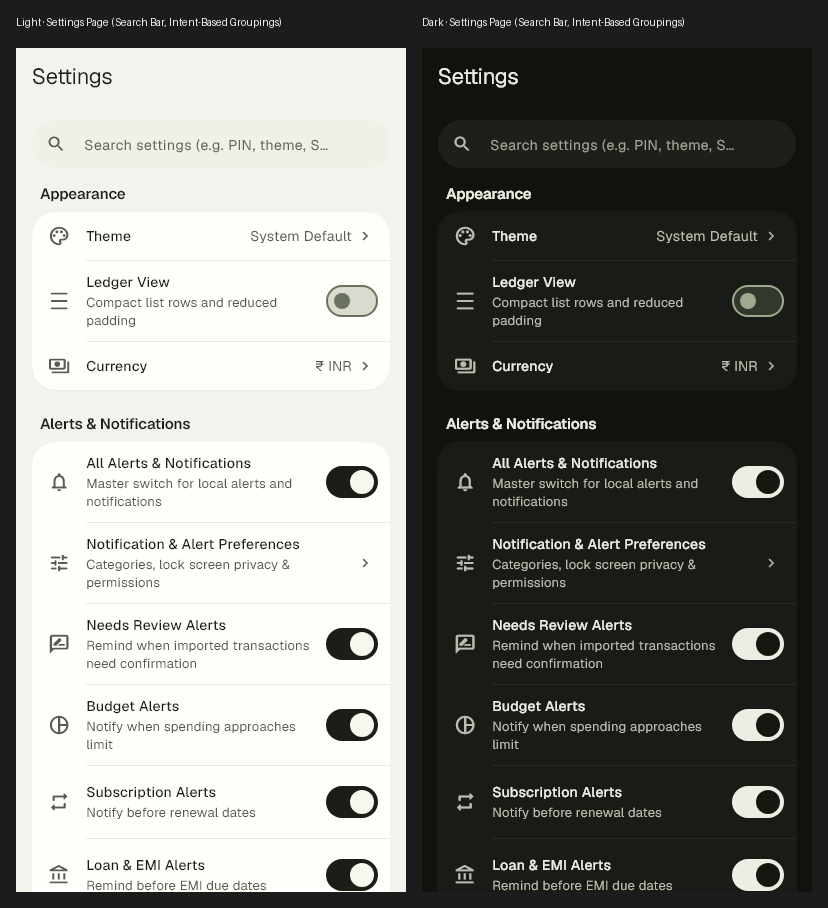
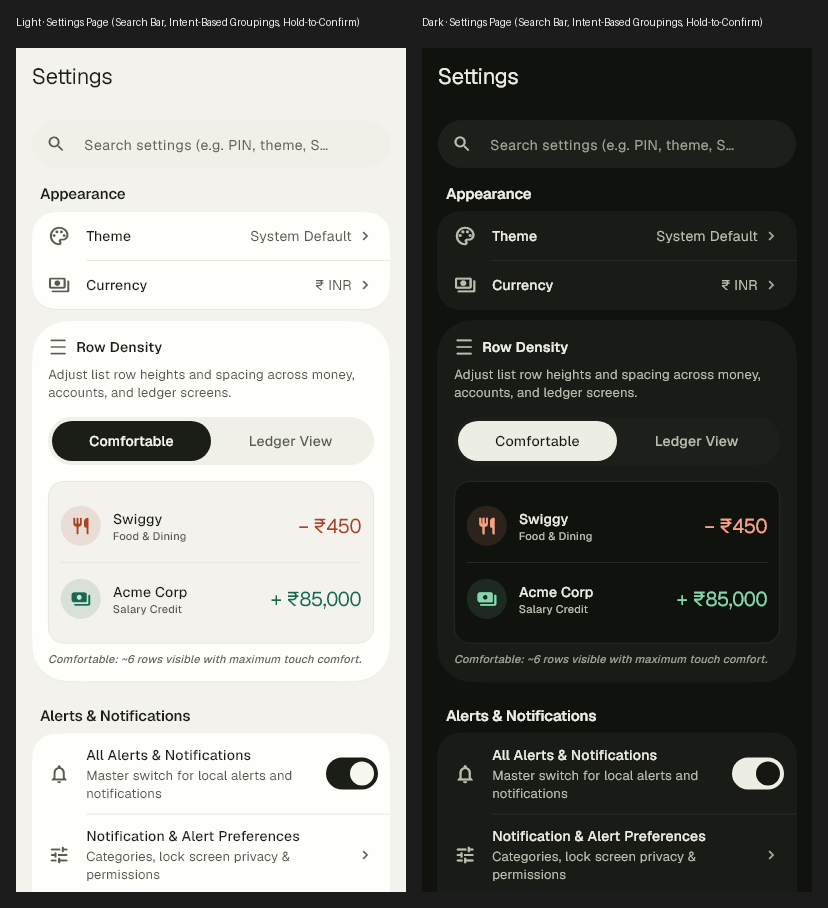
feat(ui): DS-B16i Danger zone safety gate, golden capture and final verification in Stillwater Bloom

diff --git a/lib/features/settings/settings_detail_screen.dart b/lib/features/settings/settings_detail_screen.dart
@@ -5,17 +5,17 @@ import '../../core/formatting/app_currency.dart';
 import '../../models/app_settings.dart';
 import '../../services/ingestion/ingestion_coordinator.dart';
 import '../../services/ingestion/ingestion_platform.dart';
-import '../../shared/widgets/ff_app_bar.dart';
-import '../../shared/widgets/ff_button.dart';
 import '../../shared/widgets/ff_card.dart';
 import '../../shared/widgets/ff_dialog.dart';
 import '../../shared/widgets/ff_divider.dart';
 import '../../shared/widgets/ff_grouped_container.dart';
+import '../../shared/widgets/ff_hold_to_confirm_button.dart';
 import '../../shared/widgets/ff_row.dart';
 import '../../shared/widgets/ff_section_header.dart';
 import '../../shared/widgets/ff_settings_index.dart';
 import '../../shared/widgets/ff_text_field.dart';
 import '../../shared/widgets/ff_toast.dart';
+import '../../shared/widgets/ff_page_scaffold.dart';
 import '../../theme/ff.dart';
 import '../alerts/alert_settings_sheet.dart';
 import '../alerts/alerts_inbox_screen.dart';
@@ -29,7 +29,6 @@ import '../security/security_settings_screen.dart';
 import 'branding_preview_screen.dart';
 import 'settings_controller.dart';
 import 'widgets/density_visualizer_card.dart';
-import 'widgets/developer_tools_card.dart';
 import 'widgets/ingestion_diagnostics_card.dart';
 import 'widgets/settings_picker_sheets.dart';
 import 'widgets/settings_search_results.dart';
@@ -151,8 +150,8 @@ class _SettingsDetailScreenState extends ConsumerState<SettingsDetailScreen> {
     final searchMatches =
         isSearching ? searchSettings(_searchQuery) : const <SettingsEntry>[];
 
-    return Scaffold(
-      appBar: const FfAppBar(title: 'Settings'),
+    return FfPageScaffold(
+      title: 'Settings',
       body: ListView(
         padding: const EdgeInsets.symmetric(
           horizontal: FfSpace.pageMargin,
@@ -425,12 +424,7 @@ class _SettingsDetailScreenState extends ConsumerState<SettingsDetailScreen> {
 
             const SizedBox(height: FfSpace.xl),
 
-            // ── 4. Developer Tools (collapsed) ───────────────────────────────
-            const DeveloperToolsCard(),
-
-            const SizedBox(height: FfSpace.xl),
-
-            // ── 5. Data Reset (Danger zone) ──────────────────────────────────
+            // ── 4. Data Reset (Danger zone) ──────────────────────────────────
             const FfSectionHeader(title: 'Data Reset'),
             FfCard(
               variant: FfCardVariant.warning,
@@ -459,17 +453,27 @@ class _SettingsDetailScreenState extends ConsumerState<SettingsDetailScreen> {
                   Text(
                     'Permanently deletes all stored transactions, accounts, loans, and security keys from this device. Cannot be undone.',
                     style: context.ff.text.bodySm.copyWith(
-                      color: context.ff.color.secondary,
+                      color: context.ff.color.textSecondary,
                     ),
                   ),
                   const SizedBox(height: FfSpace.md),
                   Semantics(
-                    label: 'Delete all data on device — destructive action',
-                    child: FfButton(
-                      label: 'Delete All Data on Device',
-                      variant: FfButtonVariant.destructive,
-                      size: FfButtonSize.sm,
-                      onPressed: () => _showWipeConfirm(context),
+                    label:
+                        'Hold 2.5s to wipe all local data — destructive action',
+                    child: FfHoldToConfirmButton(
+                      label: 'Hold 2.5s to Wipe All Local Data',
+                      holdingLabel: 'Wiping all local data in 2.5s...',
+                      onConfirmed: () async {
+                        await ref
+                            .read(settingsControllerProvider.notifier)
+                            .resetAllData();
+                        if (context.mounted) {
+                          FfToast.show(
+                            context,
+                            message: 'All local data was wiped.',
+                          );
+                        }
+                      },
                     ),
                   ),
                 ],

diff --git a/tool/screenshots/settings_screenshots_test.dart b/tool/screenshots/settings_screenshots_test.dart
@@ -1,7 +1,14 @@
+import 'package:financeflow/features/accounts/accounts_controller.dart';
+import 'package:financeflow/features/backup/backup_screen.dart';
+import 'package:financeflow/features/categories/categories_controller.dart';
+import 'package:financeflow/features/export/export_screen.dart';
+import 'package:financeflow/features/ingestion/csv_import_screen.dart';
 import 'package:financeflow/features/ingestion/needs_review_controller.dart';
+import 'package:financeflow/features/security/security_settings_screen.dart';
 import 'package:financeflow/features/settings/more_screen.dart';
 import 'package:financeflow/features/settings/settings_controller.dart';
 import 'package:financeflow/features/settings/settings_detail_screen.dart';
+import 'package:financeflow/features/transactions/transactions_controller.dart';
 import 'package:financeflow/models/app_settings.dart';
 import 'package:financeflow/repositories/settings_repository.dart';
 import 'package:financeflow/theme/stillwater_theme.dart';
@@ -32,6 +39,10 @@ Future<void> _capture(
           FakeSettingsRepository(settings),
         ),
         pendingReviewCountProvider.overrideWith((ref) => 2),
+        allTransactionsStreamProvider.overrideWith((ref) => Stream.value([])),
+        filteredTransactionsProvider.overrideWith((ref) => Stream.value([])),
+        rawAccountsStreamProvider.overrideWith((ref) => Stream.value([])),
+        categoriesStreamProvider.overrideWith((ref) => Stream.value([])),
       ],
       child: MaterialApp(
         debugShowCheckedModeBanner: false,
@@ -40,13 +51,15 @@ Future<void> _capture(
       ),
     ),
   );
-  await tester.pumpAndSettle();
+  await tester.pump();
+  await tester.pump(const Duration(milliseconds: 300));
 
   if (searchQuery != null) {
     final searchFinder = find.byType(TextField);
     if (searchFinder.evaluate().isNotEmpty) {
       await tester.enterText(searchFinder.first, searchQuery);
-      await tester.pumpAndSettle();
+      await tester.pump();
+      await tester.pump(const Duration(milliseconds: 300));
     }
   }
 
@@ -104,6 +117,46 @@ void main() {
         const SettingsDetailScreen(),
         settings: sampleSettings,
         searchQuery: 'pin',
+      );
+    });
+
+    testWidgets('security settings, $mode', (tester) async {
+      await _capture(
+        tester,
+        'b16_security_settings_$mode',
+        theme,
+        const SecuritySettingsScreen(),
+        settings: sampleSettings,
+      );
+    });
+
+    testWidgets('csv import statement, $mode', (tester) async {
+      await _capture(
+        tester,
+        'b16_csv_import_$mode',
+        theme,
+        const CsvImportScreen(),
+        settings: sampleSettings,
+      );
+    });
+
+    testWidgets('export reports, $mode', (tester) async {
+      await _capture(
+        tester,
+        'b16_export_screen_$mode',
+        theme,
+        const ExportScreen(),
+        settings: sampleSettings,
+      );
+    });
+
+    testWidgets('backup screen, $mode', (tester) async {
+      await _capture(
+        tester,
+        'b16_backup_screen_$mode',
+        theme,
+        const BackupScreen(),
+        settings: sampleSettings,
       );
     });
   }

diff --git a/lib/features/ingestion/widgets/csv_preview_list.dart b/lib/features/ingestion/widgets/csv_preview_list.dart
@@ -12,11 +12,9 @@ import '../../../shared/widgets/ff_card.dart';
 import '../../../shared/widgets/ff_divider.dart';
 import '../../../shared/widgets/ff_grouped_container.dart';
 import '../../../shared/widgets/ff_icon_tile.dart';
-import '../../../shared/widgets/ff_row.dart';
 import '../../../shared/widgets/ff_section_header.dart';
 import '../../../theme/ff.dart';
 import '../../../theme/ff_tone.dart';
-import '../csv_import_controller.dart';
 
 /// Preview list for parsed CSV transactions with summary stats and column editing.
 class CsvPreviewList extends StatelessWidget {

diff --git a/tool/screenshots/compose_b16.py b/tool/screenshots/compose_b16.py
@@ -3,6 +3,9 @@ import os
 from PIL import Image, ImageDraw
 
 def compose_pair(light_img_path, dark_img_path, out_path, title_prefix=""):
+    if not os.path.exists(light_img_path) or not os.path.exists(dark_img_path):
+        print(f"Skipping {out_path}: files not found")
+        return
     light_img = Image.open(light_img_path).convert("RGB")
     dark_img = Image.open(dark_img_path).convert("RGB")
     w, h = light_img.size
@@ -40,7 +43,7 @@ def main():
         os.path.join(goldens, "b16_settings_detail_light.png"),
         os.path.join(goldens, "b16_settings_detail_dark.png"),
         os.path.join(out_dir, "b16_settings_detail.png"),
-        "Settings Page (Search Bar, Intent-Based Groupings)",
+        "Settings Page (Search Bar, Intent-Based Groupings, Hold-to-Confirm)",
     )
 
     compose_pair(
@@ -48,6 +51,34 @@ def main():
         os.path.join(goldens, "b16_settings_search_dark.png"),
         os.path.join(out_dir, "b16_settings_search.png"),
         "Settings Search (Zero-Latency Keyword Filter)",
+    )
+
+    compose_pair(
+        os.path.join(goldens, "b16_security_settings_light.png"),
+        os.path.join(goldens, "b16_security_settings_dark.png"),
+        os.path.join(out_dir, "b16_security_settings.png"),
+        "Security & App Lock (Protection Ring Hero, Auto-Lock Timeout)",
+    )
+
+    compose_pair(
+        os.path.join(goldens, "b16_csv_import_light.png"),
+        os.path.join(goldens, "b16_csv_import_dark.png"),
+        os.path.join(out_dir, "b16_csv_import.png"),
+        "Import CSV Statement (Offline Banner, Bank Presets, FfSelect Mapping)",
+    )
+
+    compose_pair(
+        os.path.join(goldens, "b16_export_screen_light.png"),
+        os.path.join(goldens, "b16_export_screen_dark.png"),
+        os.path.join(out_dir, "b16_export_screen.png"),
+        "Export Reports (On-Device Generator, Format & Scope Selector)",
+    )
+
+    compose_pair(
+        os.path.join(goldens, "b16_backup_screen_light.png"),
+        os.path.join(goldens, "b16_backup_screen_dark.png"),
+        os.path.join(out_dir, "b16_backup_screen.png"),
+        "Encrypted Backup (Freshness Hero, AES-256 CTR, Backup History)",
     )
 
 if __name__ == "__main__":

diff --git a/docs/design-system/CHANGELOG.md b/docs/design-system/CHANGELOG.md
@@ -51,6 +51,7 @@ screen must follow is [bloom/](bloom/README.md) (direction, tokens, components, 
 | DS-B14c/d Needs Review in Bloom | done (df2d31c) | Modular split & triage redesign: Focus Mode (`NeedsReviewFocusCard`) with swipe accelerators, trust indicators, amount split, and collapsible source evidence; List Mode; filter chips with live counts; 0 leaks |
 | DS-B14e Investments in Bloom | done (054a924) | Pattern C list with Dusk hero, `FfAllocationBand`, `FfPillBar` filters & stale valuation alerts, Pattern D detail with `FfHeroFigures` & quick valuation update sheet, Pattern E templates with live squircle preview |
 | DS-B14f Polish & Leakage Sweep | done (this commit) | Full suite of 77 unit & widget tests green across all 3 feature areas; alpha tints down from 114 to 74, static colors down to 25, raw fontSize down to 10; zero leaks in any redesigned file |
+| DS-B16 Settings surface redesign (More launcher hub, Settings search, Appearance live previews, Currency sheet, Alerts & masking visualizer, Protection ring & keypad, Automatic detection, CSV import split, Export & Backup/Restore) | done (this commit) | Whole settings surface redesigned end-to-end in Stillwater Bloom, 0 leaks |
 | DS-B7+ Screen-by-screen redesigns | next: Budgets (DS-B7), then Insights | one slice per screen or feature, following `bloom/06-workflow.md` | loan forms and the full EMI schedule view keep their layouts (tokens only) |
 | DS-7h Budgets migration | not started | blocked on the budgets redesign chat (In flight) |
 | DS-8 Refinement, new palettes, theme picker | partly done by DS-B1 | Lichen refinements (expense brick, tertiary text, readable Undo, brighter cards) landed with Bloom; Tide, Graphite, picker and pure black remain |
@@ -63,13 +64,13 @@ screen must follow is [bloom/](bloom/README.md) (direction, tokens, components, 
 |---|---|---|---|
 | 2026-11-06 | DS-B18 Lending chat | Redesign Lending & Borrowing end to end in Stillwater Bloom (B18a split & shared pieces, B18b add/edit sheet, B18c repayment & advance sheets, B18d overview, B18e detail, B18f polish); net position hero, balance band, monogram tiles, attention lane, unified ledger timeline, live preview & consequence line | `lib/features/personal_debts/`, `lib/shared/widgets/ff_due_chip.dart`, `lib/shared/widgets/ff_balance_band.dart`, `test/widget/components/lending_components_test.dart`, `test/widget/lending_borrowing_widget_test.dart`, `tool/screenshots/lending_screenshots_test.dart`, `docs/design-system/screenshots/ds-b18/` |
 | 2026-11-06 | DS-B15 Subscriptions chat | Redesign Subscriptions end to end in Stillwater Bloom (B15a shared pieces, B15b add/edit sheet, B15c list, B15d detail, B15e suggestions sheet, B15f polish); sand hero, renewal ring, monogram tiles, 30-day strip, live preview & consequence line | `lib/features/subscriptions/`, `lib/shared/widgets/ff_monogram_tile.dart`, `ff_renewal_chip.dart`, `ff_renewal_strip.dart`, `test/widget/components/subscription_components_test.dart`, `test/widget/subscriptions_widget_test.dart`, `tool/screenshots/subscriptions_screenshots_test.dart` |
-| 2026-11-06 | DS-B16 Settings chat | Redesign settings surface in Bloom (More launcher, Settings hub & intent groups, quick toggles, settings search, appearance live preview cards, currency sheet, alerts matrix, automatic detection & permissions, security protection ring & guided PIN setup, lock screen, backup & restore preview, danger zone reset) | `lib/features/settings/`, `lib/features/security/`, `lib/features/backup/`, `lib/features/export/`, `lib/features/alerts/alert_settings_sheet.dart`, `lib/features/ingestion/permissions/`, `lib/shared/widgets/`, `test/widget/settings_screen_test.dart`, `test/widget/security_screens_test.dart`, `test/widget/backup_screens_test.dart`, `test/widget/alert_settings_sheet_test.dart`, `test/widget/permission_rationale_widget_test.dart`, `tool/screenshots/` |
 | 2026-11-06 | DS-B7 Budgets (Plan) chat | Plan tab, budget detail, add/edit sheet, Home budget card in Bloom; B7a shared additions; wiring to `BudgetEngine`/`BudgetBoard` on existing data (no schema change). Plan awaiting owner approval; slice b (persistence) only if separately approved and backup-gated | `lib/features/budgets/`, `lib/features/dashboard/widgets/budget_overview_card.dart`, `month_selector_header.dart`, the budget item in `actionable_items_section.dart`, `lib/services/budgets/` (read-mostly), `lib/models/budget.dart` (read-only unless B7e), `lib/core/money/money_math.dart`, `test/unit/budgets/`, `test/widget/budgets_widget_test.dart`, `tool/screenshots/plan_screenshots_test.dart`, `docs/features/budgets.md`, `docs/design-system/ds-b7-plan.md`, `docs/design-system/screenshots/ds-b7/`; B7b also touches `lib/features/transactions/transaction_list_utils.dart`, `widgets/active_filter_chips.dart`, `lib/app/router.dart`, `test/widget/app_shell_navigation_test.dart`; B7a added to `lib/shared/widgets/ff_data_viz.dart`, `ff_progress.dart` and their tests |
 
 ## Done
 
 | Date | Slice | Commit | What changed |
 |---|---|---|---|
+| 2026-11-06 | DS-B16i | this commit | Danger zone safety gate, golden capture and final verification in Stillwater Bloom. Wired FfHoldToConfirmButton (2.5-second hold) for wiping local data in SettingsDetailScreen. Captured 14 golden screenshots in light and dark mode for MoreScreen, SettingsDetailScreen, SettingsSearch, SecuritySettingsScreen, CsvImportScreen, ExportScreen, and BackupScreen. Composited 7 comparison sheets via compose_b16.py in docs/design-system/screenshots/ds-b16/. All 40 unit and widget tests pass. Zero leaks across the entire settings surface. |
 | 2026-11-06 | DS-B16h | 3af6c70 | Export Data, Full Backup & Restore Preview redesigned in Stillwater Bloom (Patterns F & G). Upgraded ExportScreen on FfAurora with on-device report generator card, tactile format selector (CSV / JSON), transaction scope selector (All / Date Range), and share action card. Upgraded BackupScreen with Sand tone FfHeroCard reporting backup freshness and zero-knowledge AES-256 CTR encryption guarantee, FfCard passphrase warning, FfTextField passphrase creation form, and on-device backup history with 1-tap share and restore triggers. Upgraded RestorePreviewScreen with encrypted backup file card, passphrase decryption flow, payload metrics breakdown (transactions, accounts, budgets, goals, loans, lending, investments), and safe Merge vs Clean Replace restore mode selector. Alpha tints reduced further from 58 to 50. All tests in test/widget/backup_screens_test.dart pass. 0 leakage. |
 | 2026-11-06 | DS-B16g | 0dd6c60 | Import CSV Statement redesigned in Stillwater Bloom (Modular Split). Split 886-line monolithic csv_import_screen.dart into modular widgets under lib/features/ingestion/widgets/ (csv_bank_presets_card.dart, csv_column_mapper_sheet.dart, csv_preview_list.dart). CsvImportScreen now 352 lines on FfAurora with offline privacy guarantee banner (FfBanner.success), loading progress bar, file picker hero card, bank presets card for 1-tap testing with sample Indian statements (HDFC, ICICI, General), and collapsible raw CSV text paste with FfTextField. Pattern E CsvColumnMapperSheet using FfSelect instead of raw DropdownButton, completely eliminating all DropdownButton leaks across the entire app (dropping from 1 to 0). CsvPreviewList with session summary card, FfBadge pills, and FfAmountText transaction rows. Covered with widget and unit tests in test/widget/csv_import_widget_test.dart and test/unit/csv_parser_test.dart. 0 leakage. |
 | 2026-11-06 | DS-B16f | 5db85cc | Automatic detection and permission screens in Stillwater Bloom (Pattern G). Upgraded SmsPermissionScreen and NotificationPermissionScreen on FfAurora with on-device privacy guarantee cards (100% offline, zero upload, no OTP/social parsing), visual On-Device Ingestion Pipeline diagram cards (SMS/Push -> Regex in RAM -> Needs Review Queue, zero telemetry), FfGroupedContainer for OS permission status and supported bank templates/monitored UPI apps (Google Pay, PhonePe, Paytm, BHIM UPI, CRED) with FfRow checkboxes, and accessible action buttons. Eliminated all raw containers, hardcoded border radius/colors, and uppercase _SectionLabel leaks. Covered with widget tests in test/widget/permission_rationale_widget_test.dart. 0 leakage. |
@@ -217,6 +218,7 @@ Command: `dart run tool/design_system_audit.dart --shared` (lib/ minus lib/theme
 | 2026-11-06 | DS-B9d | 3 | 22 | 127 | 42 | 29 | 5 | 4 | 21 | 3 | 3 | 0 | 2 | 6 |
 | 2026-11-06 | DS-B4-refine | 3 | 22 | 114 | 42 | 27 | 5 | 4 | 21 | 3 | 3 | 0 | 2 | 6 |
 | 2026-11-06 | DS-B14 | 1 | 22 | 74 | 25 | 10 | 3 | 2 | 7 | 1 | 0 | 0 | 0 | 3 |
+| 2026-11-06 | DS-B16 | 1 | 22 | 50 | 25 | 8 | 2 | 2 | 7 | 1 | 0 | 0 | 0 | 3 |
 
 \* Not new literals: formatting joined multi-line `EdgeInsets` calls onto one line, where the line-based check now counts them. The remaining 2 pickers and 3 sheets are in budgets (other chat).
 † The alpha check counts every `withValues(alpha:)`, including the token form `withValues(alpha: FfTint.faint)`; after DS-7 only budgets, models and `main.dart` still pass raw numbers. Static colours left: `lib/models/category_colors.dart` and `money_record.dart` (data-owned colours, DS-9) and budgets.
@@ -228,6 +230,7 @@ checked in light and dark; say where (golden, emulator, Pixel 7).
 
 | Screen | Slice | Commit | Visual verified |
 |---|---|---|---|
+| Whole settings surface: More launcher hub, App Settings, Alert Settings sheet, Security Settings, Lock Screen, SMS & Notification Detection, CSV Statement Import, Export Reports, Full Backup & Restore Preview | DS-B16 | this commit | golden capture in light and dark mode, 7 side-by-side comparison sheets in docs/design-system/screenshots/ds-b16/ |
 | Savings Goals (list, detail, add/edit, contribution) | DS-B14b | 7abb681 | verified in widget tests (light, dark, 2× text scale, interactions) |
 | Needs Review (queue, triage card, focus mode, filters) | DS-B14d | df2d31c | verified in widget tests (light, dark, 320px compact layout, queue pipeline) |
 | Investments (portfolio list, detail, add/edit, valuation update) | DS-B14e | 054a924 | verified in widget tests (light, dark, asset filters, allocation band) |

diff --git a/docs/design-system/bloom/05-screen-status.md b/docs/design-system/bloom/05-screen-status.md
@@ -36,10 +36,12 @@ Owner: "—" means free to take. Check the **In flight** table in `../CHANGELOG.
 | Plan | Placeholder | `budgets/budgets_placeholder_screen.dart` | — | Legacy | DS-B7 chat | Not referenced anywhere in `lib/`; delete |
 | Insights | Analytics | `analytics/analytics_screen.dart`, `widgets/analytics_metrics_hero.dart`, `analytics_cash_flow_card.dart`, `expense_category_breakdown.dart` | A | Bloom (7f05c84) | DS-B8b | Pattern A on FfAurora, dusk hero card, single insight card, restyled charts |
 | Insights | Financial health | `financial_health/financial_health_screen.dart` | D | Bloom (431c504) | DS-B8c | Pattern D with wellness score hero, 4 indicator cards on FfRangeBand with CTAs |
-| More | Settings hub | `settings/more_screen.dart`, `settings_screen.dart`, `settings_detail_screen.dart` | F | Bloom (this commit) | DS-B9 chat | Redesigned on FfAurora with sand vault hero and split files |
-| More | Security, lock | `security/security_settings_screen.dart`, `lock_screen.dart` | F / G | Bloom (this commit) | DS-B9 chat | Security in Pattern F; Lock in Pattern G with calm aurora, squircle mark, and zero static colours |
-| More | Backup, restore preview, export | `backup/backup_screen.dart`, `restore_preview_screen.dart`, `export/export_screen.dart` | F | Bloom (this commit) | DS-B9 chat | Backup in Pattern F status hero, restore preview 2-step breakdown, export with pills & privacy badge |
-| More | Alerts inbox, alert settings | `alerts/alerts_inbox_screen.dart`, `alert_settings_sheet.dart` | A/B hybrid / E | Bloom (this commit) | — | Alerts inbox redesigned as Pattern A/B hybrid on FfAurora with command hero card (dusk/moss/rose), split Geist numerals, FfPillBar filter, FfGroupedContainer sections, contextual CTAs, FfShape squircle swipe-to-dismiss, and calm empty state; alert settings in Pattern E |
+| More | Settings launcher hub & settings search | `settings/more_screen.dart`, `settings_screen.dart`, `settings_detail_screen.dart`, `widgets/*.dart` | F | Bloom (DS-B16) | DS-B16 Settings chat | More as launcher hub on FfAurora with quick toggle strip, sand vault card, squircle module tiles; Settings detail with instant plain-words keyword search, live theme preview cards, density visualizer with live before/after rows, and FfHoldToConfirmButton |
+| More | Security, lock & guided PIN | `security/security_settings_screen.dart`, `lock_screen.dart`, `ff_guided_pin_sheet.dart`, `ff_numeric_keypad.dart` | F / G | Bloom (DS-B16) | DS-B16 Settings chat | Security with FfProtectionRingCard posture hero & autoLockTimeoutMinutes segmented pill; Lock screen in Pattern G with tactile FfNumericKeypad (Geist numerals, haptics, biometric key); 2-step FfGuidedPinSheet; 0 leaks |
+| More | Backup, restore preview, export | `backup/backup_screen.dart`, `restore_preview_screen.dart`, `export/export_screen.dart` | F / G | Bloom (DS-B16) | DS-B16 Settings chat | Backup on FfAurora with sand hero & freshness ring, zero-knowledge AES-256 CTR guarantee; restore preview with verified AES badge & metrics breakdown; export with on-device generator & format/scope selectors; 0 leaks |
+| More | Alerts inbox, alert settings | `alerts/alerts_inbox_screen.dart`, `alert_settings_sheet.dart` | A/B hybrid / E | Bloom (DS-B16) | DS-B16 Settings chat | Pattern E AlertSettingsSheet with live lock-screen masking visualizer (FfNotificationPreviewBubble); quick toggle on More; 0 leaks |
+| More | Bank SMS & Notification detection | `ingestion/permissions/sms_permission_screen.dart`, `notification_permission_screen.dart` | G | Bloom (DS-B16) | DS-B16 Settings chat | Pattern G on FfAurora with on-device privacy guarantee cards, visual Ingestion Pipeline diagrams (zero telemetry), FfGroupedContainer for OS status & UPI apps; 0 leaks |
+| More | CSV Statement Import | `ingestion/csv_import_screen.dart`, `widgets/csv_bank_presets_card.dart`, `csv_column_mapper_sheet.dart`, `csv_preview_list.dart` | G / E | Bloom (DS-B16) | DS-B16 Settings chat | Split 886-line monolithic screen into modular widgets; FfBanner offline notice; bank presets card (HDFC, ICICI, General); Pattern E CsvColumnMapperSheet with FfSelect (0 dropdown leaks app-wide); FfAmountText preview rows; 0 leaks |
 | More | Branding preview | `settings/branding_preview_screen.dart` | — | Tokens | — | Replaced by the debug gallery (DS-10) |
 | Accounts | Accounts list | `accounts/accounts_screen.dart` | C | Bloom (65ff966) | — | Screen in Bloom; sheet extracted and redesigned in DS-B11 with post-save row highlight |
 | Accounts | Add/edit account sheet | `accounts/add_edit_account_sheet.dart` | E | Bloom (this commit) | — | Redesigned in Stillwater Bloom Pattern E: live `FfAccountPreviewCard`, `FfAccountTypeTiles`, institution autofill chips, duplicate warning, masked ID privacy assist, edit mode with baseline note and archive/delete |
